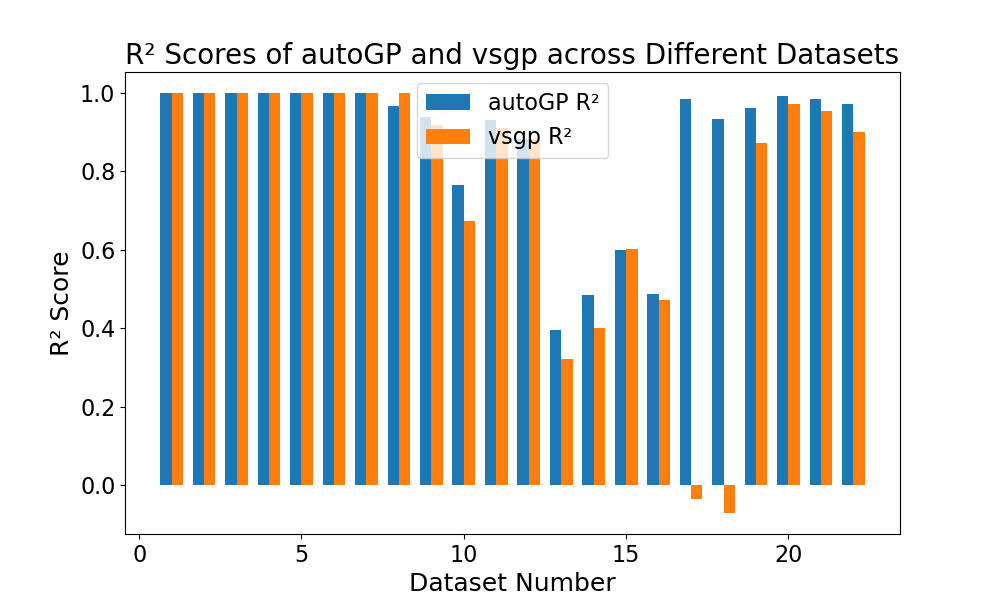
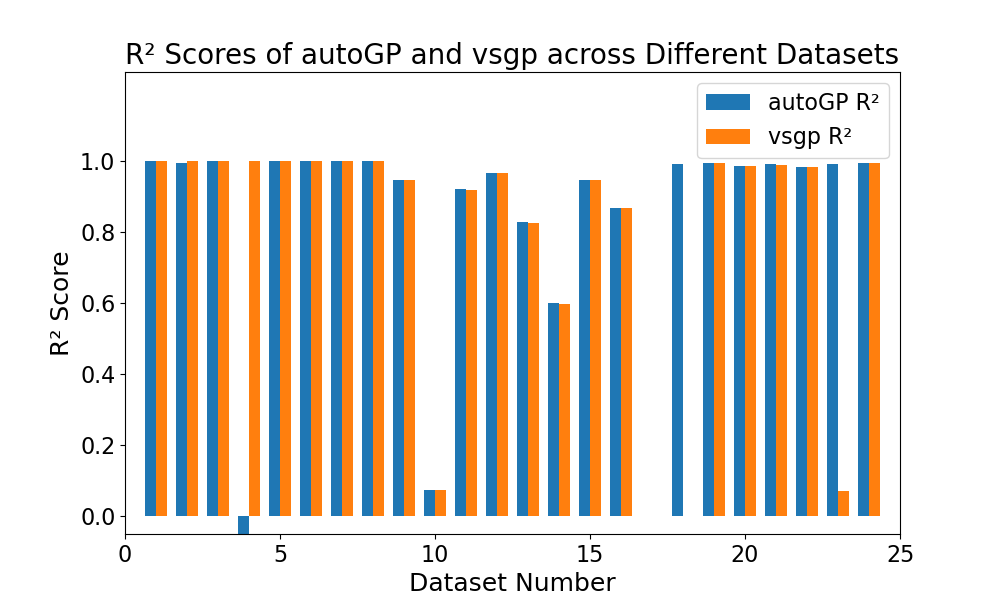
Update structure

diff --git a/asset/Model_comparison.py b/asset/Model_comparison.py
@@ -38,7 +38,7 @@ class DataGenerator:
             X = torch.linspace(0, self.x_range, self.n_samples * self.x_dim).reshape(self.n_samples, self.x_dim)
 
             X_warped = scale * torch.exp(X + shift) / (1 + torch.exp(X + shift))
-            y_warped = 2 * X_warped.sum(dim=1) + torch.normal(mean=0, std=0.1, size=(self.n_samples,))
+            y_warped = 2 * X_warped.sum(dim=1) + 0.5*torch.normal(mean=0, std=0.1, size=(self.n_samples,))
 
             self.datasets.append((X, y_warped))
 
@@ -75,11 +75,11 @@ class DataGenerator:
 torch.manual_seed(1)
 np.random.seed(0)
 
-data_gen = DataGenerator(n_datasets=8, n_samples=300, x_range=20, x_dim=1)
-data_gen.generate_polynomial_data()
+data_gen = DataGenerator(n_datasets=24, n_samples=800, x_range=20, x_dim=1)
+# data_gen.generate_polynomial_data()
 data_gen.generate_warped_data()
-data_gen.generate_periodic_data()
-# data_gen.plot_datasets(num_plots=5)
+# data_gen.generate_periodic_data()
+#data_gen.plot_datasets(num_plots=5)
 
 model1_better_count = 0
 model2_better_count = 0
@@ -93,14 +93,14 @@ r2_scores_model2 = []
 number_of_datasets = 0
 for X, y in data_gen.datasets:
     number_of_datasets += 1
-    X_train, X_test, y_train, y_test = train_test_split(X.numpy(), y.numpy(), test_size=0.2, random_state=42)
+    X_train, X_test, y_train, y_test = train_test_split(X.numpy(), y.numpy(), test_size=0.5, random_state=42)
     X_train = torch.tensor(X_train, dtype=torch.float64)
     X_test = torch.tensor(X_test, dtype=torch.float64)
     y_train = torch.tensor(y_train, dtype=torch.float64).view(-1, 1)
     y_test = torch.tensor(y_test, dtype=torch.float64).view(-1, 1)
 
     # Model 1: autoGP
-    model1 = autoGP(X_train, y_train, normal_method="standard", kernel=ARDKernel, inputwarp=False, deepkernel=False)
+    model1 = autoGP(X_train, y_train, normal_method="standard", kernel=NeuralKernel, inputwarp=False, deepkernel=False)
     model1.train_auto()
     y_pred_model1, _ = model1.forward(X_test)
     r2_model1 = r2_score(y_test.detach(), y_pred_model1.detach())
@@ -108,13 +108,15 @@ for X, y in data_gen.datasets:
     print("AutoGP R^2:", r2_model1, mse1)
 
     # Model 2: vsgp
-    model2 = vsgp(X_train, y_train, 5)
-    model2.train_adam(100, 0.1)
+    model2  = autoGP(X_train, y_train, normal_method="standard", kernel=NeuralKernel, inputwarp=True, deepkernel=False)
+    model2.train_auto()
     y_pred_model2, _ = model2.forward(X_test)
     r2_model2 = r2_score(y_test.detach(), y_pred_model2.detach())
     mse2 = torch.mean((y_pred_model2 - y_test) ** 2)
     print("SGP R^2:", r2_model2, mse2)
-
+    # Store R² scores
+    r2_scores_model1.append(r2_model1)
+    r2_scores_model2.append(r2_model2)
     # Check for model failure
     model1_failed = r2_model1 < 0.3
     model2_failed = r2_model2 < 0.3
@@ -131,12 +133,10 @@ for X, y in data_gen.datasets:
     if model1_failed and model2_failed:
         continue
 
-    # Store R² scores
-    r2_scores_model1.append(r2_model1)
-    r2_scores_model2.append(r2_model2)
+
 
     # Compare R² scores
-    if abs(r2_model1 - r2_model2) < 0.01:
+    if abs(r2_model1 - r2_model2) < 0.00005:
         similar_performance_count += 1
         print(f"Dataset {number_of_datasets}: Models have similar performance.")
     elif r2_model1 > r2_model2:
@@ -146,11 +146,11 @@ for X, y in data_gen.datasets:
         print(f"Dataset {number_of_datasets}: vsgp performs better.")
 
 # Print the number of times each model performed better
-print(f'Model 1 (autoGP) performed better {model1_better_count} times.')
-print(f'Model 2 (vsgp) performed better {model2_better_count} times.')
+print(f'Model 1  performed better {model1_better_count} times.')
+print(f'Model 2  performed better {model2_better_count} times.')
 print(f'Models had similar performance {similar_performance_count} times.')
-print(f'autoGP failed {fail_model1_count} times.')
-print(f'vsgp failed {fail_model2_count} times.')
+print(f'Model 1 failed {fail_model1_count} times.')
+print(f'Model 2 failed {fail_model2_count} times.')
 
 # Create an array for the x-axis
 x = np.arange(1, len(r2_scores_model1) + 1)
@@ -162,18 +162,23 @@ width = 0.35
 fig, ax = plt.subplots(figsize=(10, 6))
 
 # Plot the R² scores as bars
-rects1 = ax.bar(x - width / 2, r2_scores_model1, width, label='autoGP R²')
-rects2 = ax.bar(x + width / 2, r2_scores_model2, width, label='vsgp R²')
+rects1 = ax.bar(x - width / 2, r2_scores_model1, width, label='without inputWarp')
+rects2 = ax.bar(x + width / 2, r2_scores_model2, width, label='with inputWarp')
 
 # Add labels, title and legend
 ax.set_xlabel('Dataset Number', fontsize=18)
 ax.set_ylabel('R² Score', fontsize=18)
-ax.set_title('R² Scores of autoGP and vsgp across Different Datasets', fontsize=20)
+ax.set_title('R² Scores of autoGP with vs. without input warp across warped datasets.', fontsize=20)
 ax.legend(fontsize=16)
 
 # Optional: Increase tick label size
 plt.xticks(fontsize=16)
 plt.yticks(fontsize=16)
+# Set the y-axis limits
+plt.ylim(-0.05, 1.25)
+plt.xlim(0,25)
+# Set the y-axis ticks to show only from 0 to 1.0
+plt.yticks([0.0, 0.2, 0.4, 0.6, 0.8, 1.0])
 
 # Save the plot as an image file
 plt.savefig('Model_comparison_warped.png')
